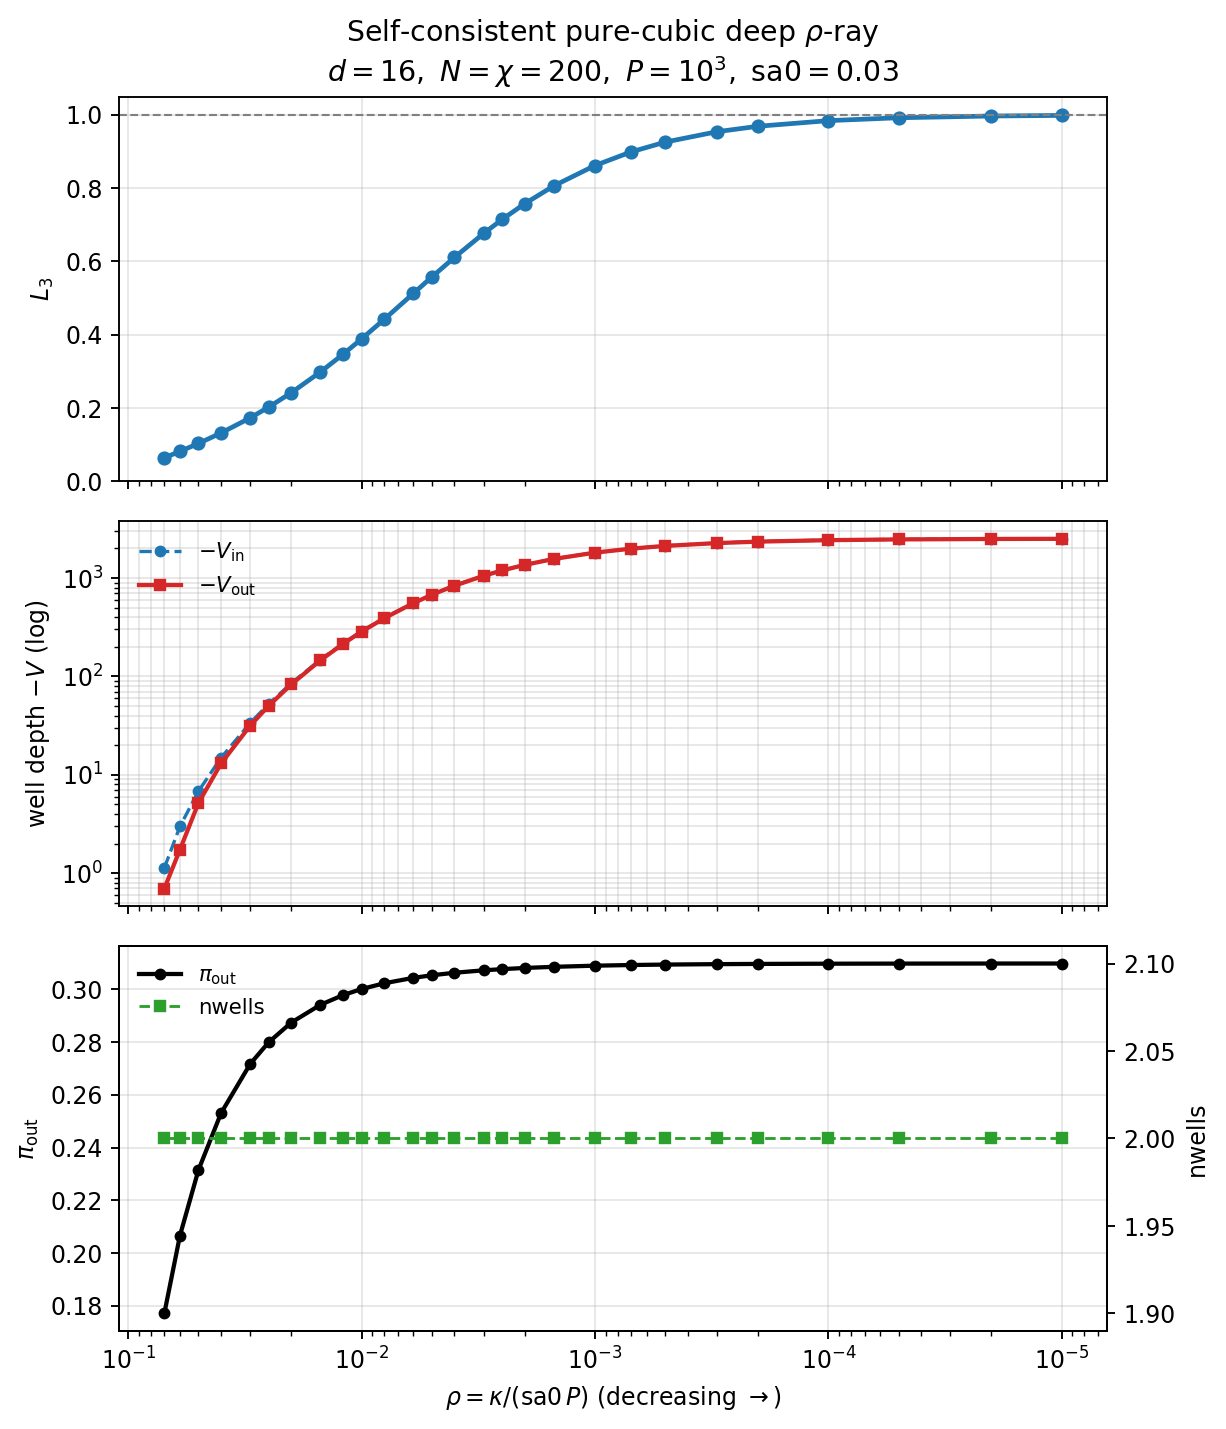
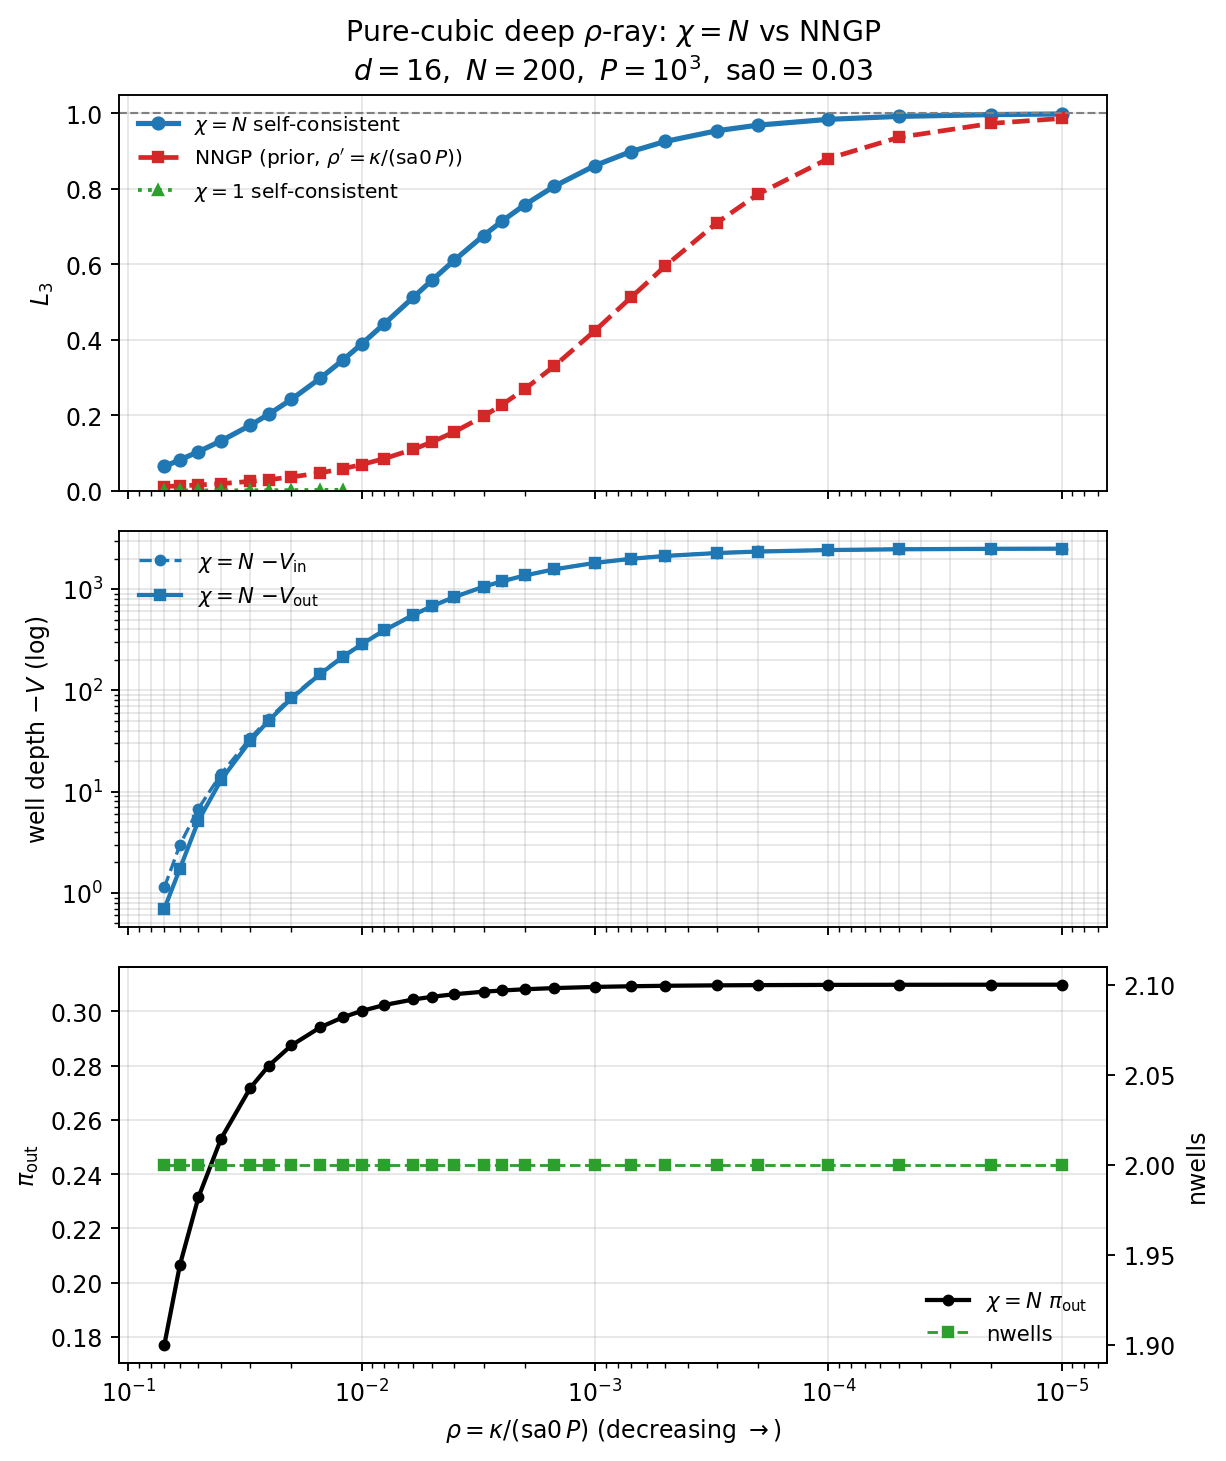
Overlay NNGP learnability on the deep ρ L3 plot.
NNGP uses ridge κ/(sa0 P) with prior kernel (no N on κ/sa0). χ=N
self-consistent still reaches L3≈1; self-consistent χ=1 stays near-unimodal.

diff --git a/milestones/fcn2_erf_hidden_kernel/plot_pure_cubic_rho_deep.py b/milestones/fcn2_erf_hidden_kernel/plot_pure_cubic_rho_deep.py
@@ -1,5 +1,5 @@
 #!/usr/bin/env python3
-"""Plot deep-ρ self-consistent ray toward L3 → 1."""
+"""Plot deep-ρ self-consistent χ=N ray, with optional NNGP L3 overlay."""
 from __future__ import annotations
 
 import argparse
@@ -9,11 +9,28 @@ import matplotlib.pyplot as plt
 import numpy as np
 
 
+def _load(path: Path):
+    return np.atleast_1d(
+        np.genfromtxt(path, delimiter=",", names=True, dtype=None, encoding=None)
+    )
+
+
 def main() -> None:
     ap = argparse.ArgumentParser()
     ap.add_argument(
         "--summary",
         default="action_h0_activation_plots/PureCubicChiN/fo_rho_deep_l3/summary_deep_equilibrium.csv",
+        help="χ=N self-consistent deep ray",
+    )
+    ap.add_argument(
+        "--nngp",
+        default="action_h0_activation_plots/PureCubicChiN/fo_rho_deep_l3/summary_deep_nngp_frozen.csv",
+        help="NNGP L3 (ridge κ/(sa0 P), prior kernel; no N on κ/sa0)",
+    )
+    ap.add_argument(
+        "--chi1",
+        default="action_h0_activation_plots/PureCubicChiN/fo_rho_deep_l3/summary_deep_chi1.csv",
+        help="optional self-consistent χ=1 deep ray",
     )
     ap.add_argument(
         "--outdir",
@@ -22,8 +39,8 @@ def main() -> None:
     args = ap.parse_args()
     outdir = Path(args.outdir)
     outdir.mkdir(parents=True, exist_ok=True)
-    d = np.genfromtxt(args.summary, delimiter=",", names=True, dtype=None, encoding=None)
-    d = np.atleast_1d(d)
+
+    d = _load(Path(args.summary))
     rho = np.asarray(d["rho"], float)
     L3 = np.asarray(d["L3"], float)
     pi = np.asarray(d["pi_out"], float)
@@ -35,30 +52,45 @@ def main() -> None:
         rho[order], L3[order], pi[order], Vout[order], Vin[order], nwells[order]
     )
 
-    fig, axes = plt.subplots(3, 1, figsize=(7.4, 8.6), sharex=True)
+    fig, axes = plt.subplots(3, 1, figsize=(7.4, 8.8), sharex=True)
     ax = axes[0]
-    ax.plot(rho, L3, "o-", color="C0", lw=2.0, ms=5)
+    ax.plot(rho, L3, "o-", color="C0", lw=2.2, ms=5, label=r"$\chi=N$ self-consistent")
+    nngp_path = Path(args.nngp)
+    if nngp_path.is_file():
+        n = _load(nngp_path)
+        rn, Ln = np.asarray(n["rho"], float), np.asarray(n["L3"], float)
+        on = np.argsort(-rn)
+        ax.plot(rn[on], Ln[on], "s--", color="C3", lw=2.0, ms=4.5,
+                label=r"NNGP (prior, $\rho'=\kappa/(\mathrm{sa0}\,P)$)")
+    chi1_path = Path(args.chi1)
+    if chi1_path.is_file() and chi1_path.stat().st_size > 50:
+        c1 = _load(chi1_path)
+        if "L3" in (c1.dtype.names or ()):
+            r1, L1 = np.asarray(c1["rho"], float), np.asarray(c1["L3"], float)
+            o1 = np.argsort(-r1)
+            ax.plot(r1[o1], L1[o1], "^:", color="C2", lw=1.6, ms=4,
+                    label=r"$\chi=1$ self-consistent")
     ax.axhline(1.0, color="0.5", ls="--", lw=0.9)
     ax.set_ylabel(r"$L_3$")
     ax.set_ylim(0, 1.05)
     ax.grid(True, alpha=0.3)
+    ax.legend(frameon=False, fontsize=8.5, loc="upper left")
     ax.set_title(
-        r"Self-consistent pure-cubic deep $\rho$-ray"
+        r"Pure-cubic deep $\rho$-ray: $\chi=N$ vs NNGP"
         "\n"
-        r"$d=16,\ N=\chi=200,\ P=10^3,\ \mathrm{sa0}=0.03$"
+        r"$d=16,\ N=200,\ P=10^3,\ \mathrm{sa0}=0.03$"
     )
 
     ax = axes[1]
-    # wells plunge to O(10^3); plot −V on log scale
-    ax.plot(rho, np.maximum(-Vin, 1e-3), "o--", color="C0", lw=1.4, ms=4, label=r"$-V_{\mathrm{in}}$")
-    ax.plot(rho, np.maximum(-Vout, 1e-3), "s-", color="C3", lw=1.8, ms=4, label=r"$-V_{\mathrm{out}}$")
+    ax.plot(rho, np.maximum(-Vin, 1e-3), "o--", color="C0", lw=1.4, ms=4, label=r"$\chi=N$ $-V_{\mathrm{in}}$")
+    ax.plot(rho, np.maximum(-Vout, 1e-3), "s-", color="C0", lw=1.8, ms=4, label=r"$\chi=N$ $-V_{\mathrm{out}}$")
     ax.set_yscale("log")
     ax.set_ylabel(r"well depth $-V$ (log)")
     ax.legend(frameon=False, fontsize=9)
     ax.grid(True, alpha=0.3, which="both")
 
     ax = axes[2]
-    ax.plot(rho, pi, "o-", color="k", lw=1.8, ms=4, label=r"$\pi_{\mathrm{out}}$")
+    ax.plot(rho, pi, "o-", color="k", lw=1.8, ms=4, label=r"$\chi=N$ $\pi_{\mathrm{out}}$")
     ax2 = ax.twinx()
     ax2.plot(rho, nwells, "s--", color="C2", lw=1.2, ms=4, label="nwells")
     ax.set_ylabel(r"$\pi_{\mathrm{out}}$")
@@ -75,8 +107,6 @@ def main() -> None:
     out = outdir / "L3_deep_vs_rho.png"
     fig.savefig(out, dpi=170, bbox_inches="tight")
     print(f"saved {out}")
-    for r, l, p, vo, nw in zip(rho[::-1], L3[::-1], pi[::-1], Vout[::-1], nwells[::-1]):
-        print(f"  ρ={r:.4g}  L3={l:.4g}  π={p:.4g}  V_out={vo:.4g}  nwells={int(nw)}")
 
 
 if __name__ == "__main__":

diff --git a/milestones/fcn2_erf_hidden_kernel/action_h0_activation_plots/PureCubicChiN/fo_rho_deep_l3/README.md b/milestones/fcn2_erf_hidden_kernel/action_h0_activation_plots/PureCubicChiN/fo_rho_deep_l3/README.md
@@ -1,32 +1,17 @@
-# Deep ρ-ray: self-consistent L₃ → 1
-
-Warm-started post-FO high-π branch of the pure-cubic multiwell matrix Laplace
-(`tmp_multiwell_pure_cubic.jl --rho-deep --seed-pi 0.17`).
+# Deep ρ-ray: χ=N vs NNGP learnability
 
 ## Setup
 
-- y = (0, ε = 1), d = 16, N = χ = 200, P = 10³, sa0 = 0.03
-- ρ = κ / (sa0 P) from 0.07 down to 10⁻⁵
-- continuation of the FO high-π basin (not the deep-outer metastable)
+- y = (0, ε = 1), d = 16, N = 200, P = 10³, sa0 = 0.03
+- ρ = κ / (sa0 P) from 0.07 → 10⁻⁵
+- ridge always ρ' = κ/(sa0 P) (no N on κ or sa0)
 
-## What happens
+## Curves
 
-| ρ | L₃ | π_out | notes |
-|---|-----|-------|-------|
-| 0.07 | 0.064 | 0.18 | post-FO start |
-| 0.01 | 0.39 | 0.30 | |
-| 0.006 | 0.51 | 0.30 | L₃ crosses ½ |
-| 7×10⁻⁴ | 0.90 | 0.31 | |
-| 5×10⁻⁵ | 0.99 | 0.31 | |
-| 10⁻⁵ | 0.998 | 0.31 | |
+- **χ=N self-consistent** — post-FO high-π multiwell branch (`summary_deep_equilibrium.csv`). L₃ → 0.998 at ρ=10⁻⁵.
+- **NNGP** — prior-kernel learnability at χ=1 amplitude (`summary_deep_nngp_frozen.csv`). Same ridge; no N-scaling. L₃ → 0.99 at ρ=10⁻⁵.
+- **χ=1 self-consistent** (optional) — center/unimodal basin stays at tiny L₃ (no FO high-π condensate).
 
-- Implied He3 kernel λ ≈ L₃ ρ / (1−L₃) saturates at ≈ 0.00621.
-- π_out saturates near 0.31; μ_out grows to ≈ 8.2; wells become extremely deep
-  (V ~ −10³), with V_in slightly below V_out (dV_raw > 0).
-- Two-well ansatz survives all the way; no collapse to nwells = 0.
+## Figure
 
-## Files
-
-- `summary_deep_equilibrium.csv`
-- `L3_deep_vs_rho.png`
-- `tmp_rho_deep.log`
+`L3_deep_vs_rho.png`
